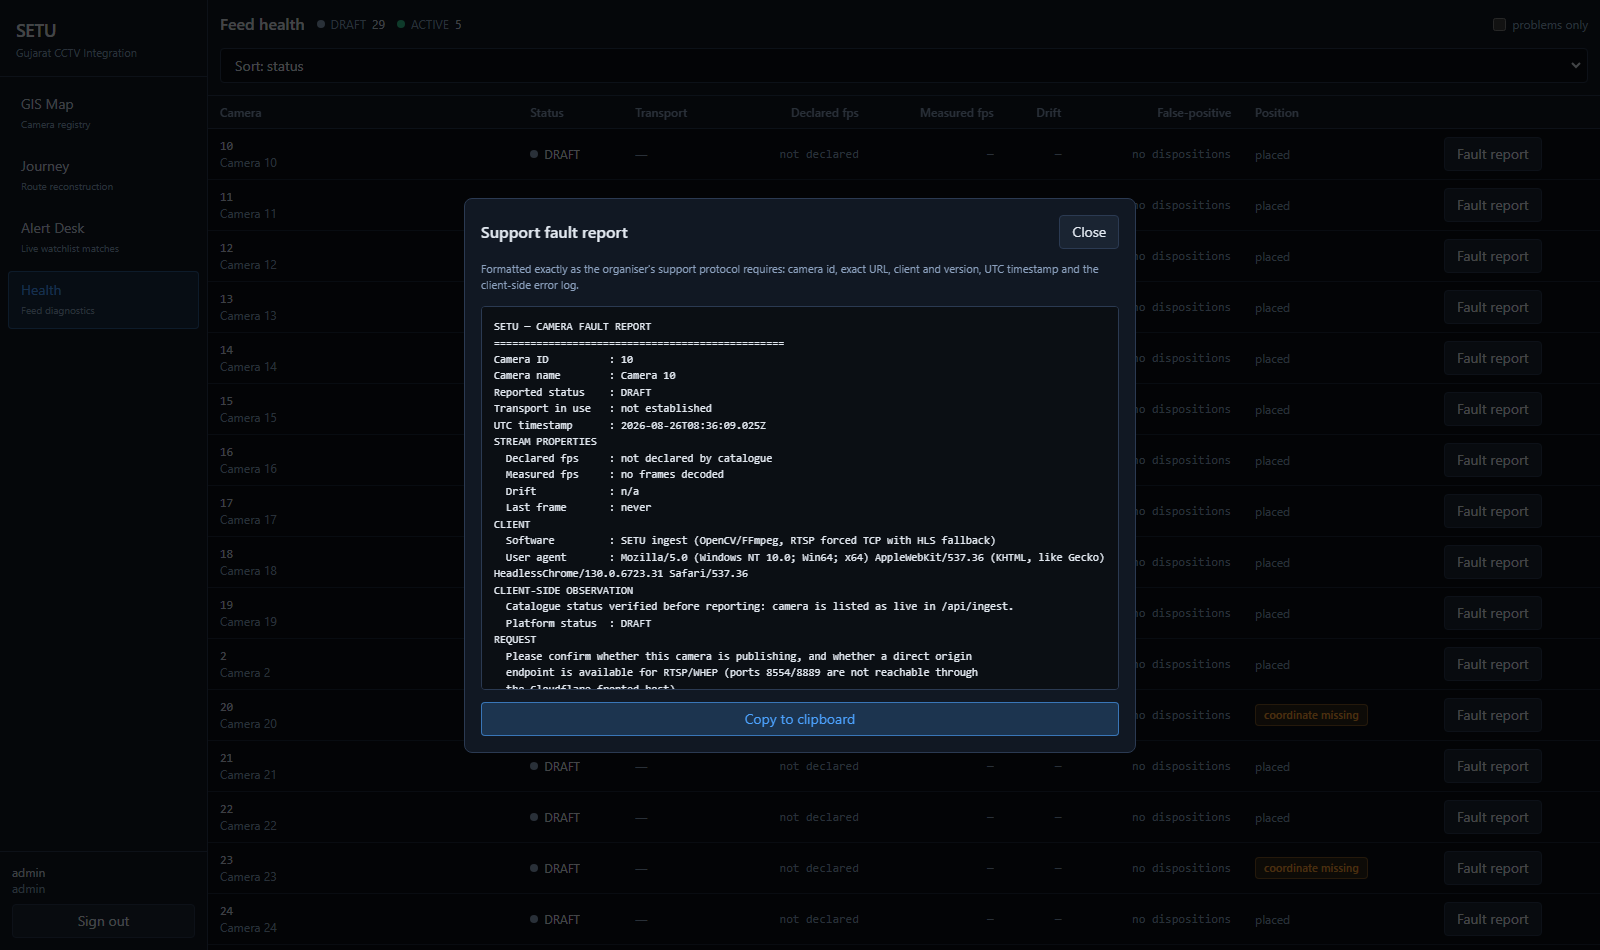
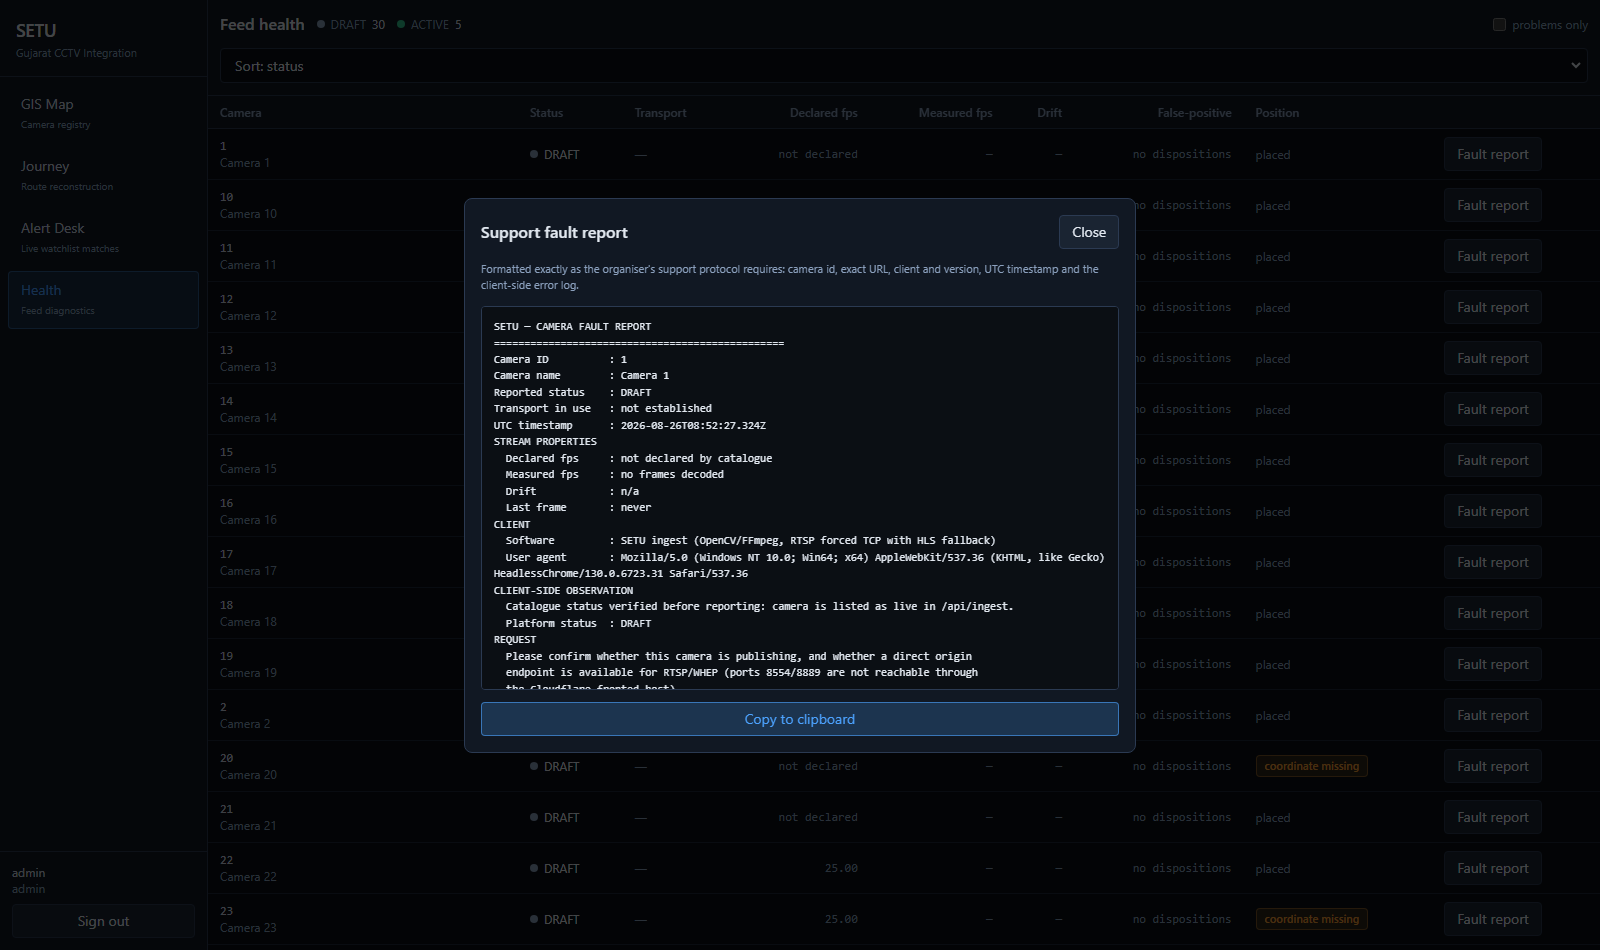
Populate health with real measured properties
The Health screen showed `not declared` and `-` for every camera, so its central
claim -- declared versus measured frame rate -- had nothing behind it.

- Catalogue sync run against the still-reachable /api/ingest populated declared
  properties for the 11 cameras that publish them. The other 19 genuinely declare
  nothing, which is the finding, not a gap.
- seed_demo.py now probes each replay source after ingest and records codec,
  resolution, declared and measured fps and transport. Five cameras carry a
  measured rate derived from PTS.
- The remaining 11 declare a rate but have never produced a frame, because the
  gateway's media plane is down. They correctly show a declared value and no
  measured one rather than being back-filled with a guess.

Drift reads 0% on the file sources because a local container's declared rate does
match its PTS rate. The interesting divergence was the gateway at 24.18 measured
against 25.0 declared, recorded in docs/DISCOVERY.md; it cannot be re-measured
while every playlist returns 502.

Screenshots recaptured against the populated data.

diff --git a/backend/scripts/seed_demo.py b/backend/scripts/seed_demo.py
@@ -183,6 +183,18 @@ def main() -> int:
             session.commit()
             source.close()
 
+            # Record what the source actually delivered. The Health screen's
+            # declared-versus-measured column is only meaningful if the measured
+            # side is populated from a real decode rather than left null.
+            caps = source.probe()
+            camera.codec = caps.codec
+            camera.resolution_w, camera.resolution_h = caps.width, caps.height
+            camera.declared_fps = caps.declared_fps
+            camera.measured_fps = caps.measured_fps
+            camera.transport = caps.transport
+            camera.last_seen_at = datetime.now(timezone.utc)
+            session.commit()
+
             st = pipeline.stats
             print(
                 f"  {camera.camera_ref}  T+{offset_min:>3}min  "
